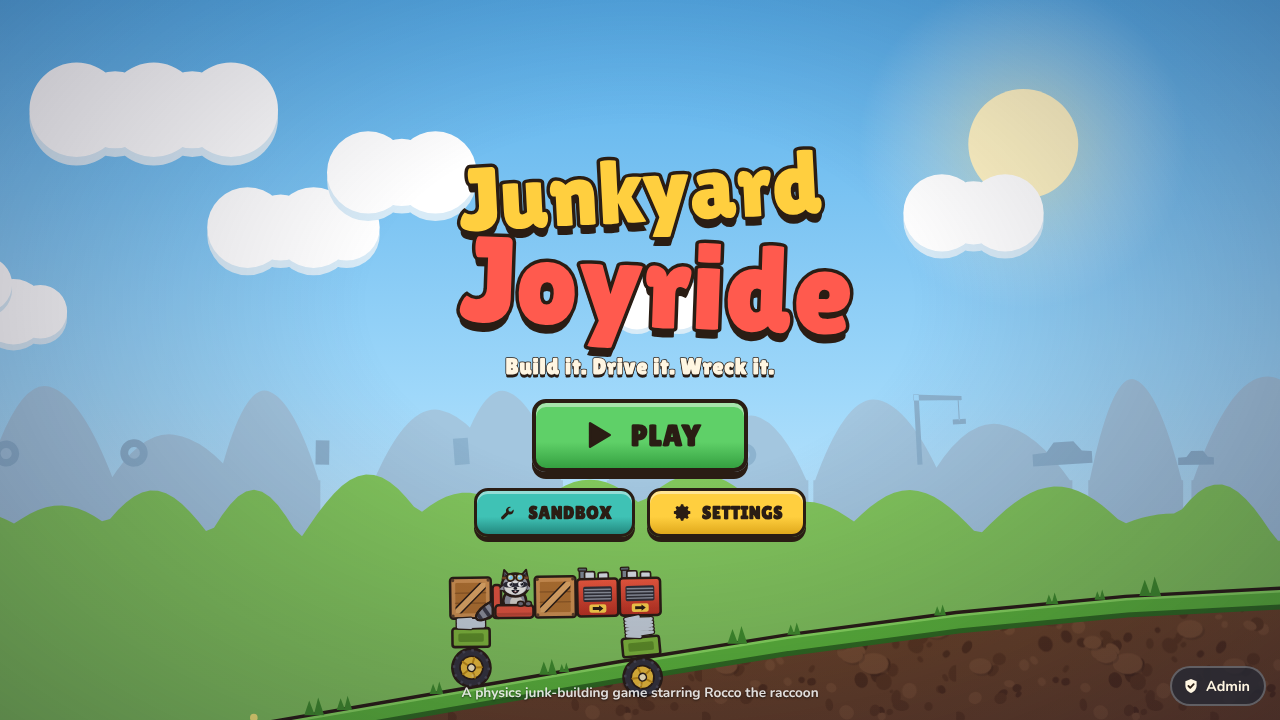
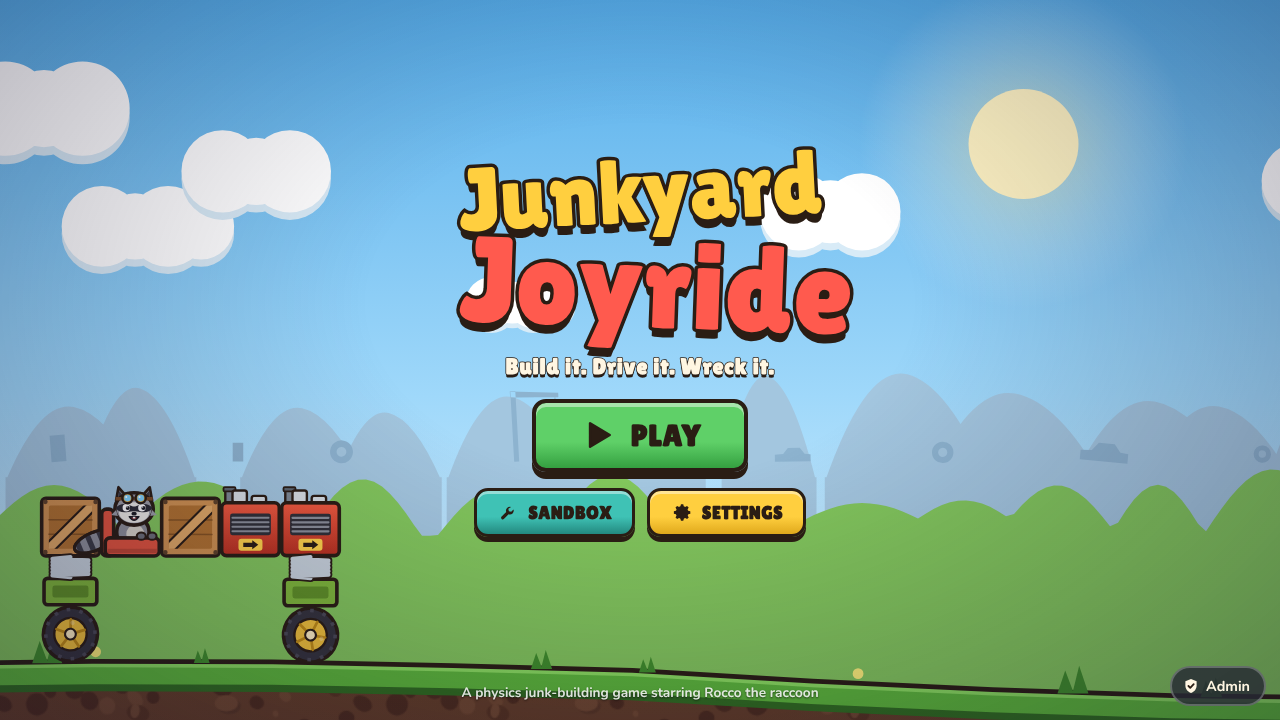
Keep the title demo car clear of the Admin button and screen edges
Measured over 7 screen sizes: the car never overlaps the logo, buttons,
footer or Admin button and never leaves the screen. Small phones get a
slightly smaller logo and no footer line so the car has room.

Claude-Session: https://claude.ai/code/session_013FFbnPa1xF3YYy7DAdYxv2

diff --git a/css/game.css b/css/game.css
@@ -186,9 +186,10 @@ input, select, textarea { font: inherit; }
 .title-buttons { display: flex; flex-direction: column; align-items: center; gap: 16px; }
 .title-buttons .row { display: flex; gap: 12px; flex-wrap: wrap; justify-content: center; }
 .title-foot {
-  position: absolute; left: 0; right: 0; bottom: calc(18px + var(--safe-b)); text-align: center;
+  position: absolute; left: 50%; bottom: calc(18px + var(--safe-b)); transform: translateX(-50%);
+  width: max-content; max-width: calc(100% - 300px); text-align: center;
   font-size: 0.85rem; color: rgba(255,255,255,0.85); text-shadow: 0 1px 2px rgba(0,0,0,0.6);
-  pointer-events: none; padding: 0 140px;
+  pointer-events: none;
 }
 .motd {
   max-width: min(560px, 92vw); text-align: center;
@@ -475,7 +476,7 @@ input, select, textarea { font: inherit; }
   .dock-actions .icon-btn { width: 44px; height: 44px; font-size: 1.25rem; }
   .ctrl { width: 70px; height: 70px; }
   .ctrl canvas { width: 46px; height: 46px; }
-  .title-foot { padding: 0 16px 44px; }
+  .title-foot { max-width: calc(100% - 32px); bottom: calc(64px + var(--safe-b)); }
   .lv-name { max-width: 34vw; }
 }
 @media (max-width: 520px) {
@@ -486,6 +487,14 @@ input, select, textarea { font: inherit; }
   .screen-title { font-size: 1.5rem; }
   .level-grid { grid-template-columns: repeat(auto-fill, minmax(96px, 1fr)); gap: 10px; padding: 8px 12px 18px; }
   .tile .t-num { font-size: 1.7rem; }
+}
+@media (max-height: 700px) and (max-width: 520px) {
+  .title-wrap { gap: 10px; margin-top: -2vh; }
+  .logo-1 { font-size: clamp(2rem, 9vw, 5.6rem); }
+  .logo-2 { font-size: clamp(2.6rem, 12vw, 7.6rem); }
+  .title-buttons { gap: 12px; }
+  .btn-xl { font-size: 1.6rem; }
+  .title-foot { display: none; }
 }
 @media (max-height: 520px) {
   .hint { display: none; }

diff --git a/js/game.js b/js/game.js
@@ -67,10 +67,11 @@
     };
     const ui = box('#scr-title .title-wrap') || { l: W * 0.3, r: W * 0.7, t: H * 0.1, b: H * 0.75 };
     const foot = box('#scr-title .title-foot');
+    const admin = box('#btn-admin');
     const floor = Math.min(H - 10, foot ? foot.t - 6 : H - 40);
     const carW = DEMO_BOX.r - DEMO_BOX.l, carH = DEMO_BOX.t - DEMO_BOX.b;
-    // under the menu, centred
-    const band = floor - (ui.b + 12);
+    // under the menu, centred (and above the Admin corner button)
+    const band = Math.min(floor, admin ? admin.t - 8 : floor) - (ui.b + 12);
     const zUnder = Math.min((W * 0.55) / carW, band / carH, 60);
     // left of the menu, near the bottom
     const side = ui.l - 24;
@@ -79,7 +80,7 @@
     if (zUnder >= zSide && zUnder > 0) spot = { zoom: Math.max(8, zUnder), x: W / 2, y: ui.b + 12 + band / 2 };
     else if (zSide > 0) {
       const z = Math.max(8, zSide);
-      spot = { zoom: z, x: Math.max(12 + (carW * z) / 2, side / 2), y: floor - (carH * z) / 2 };
+      spot = { zoom: z, x: Math.max(24 + (carW * z) / 2, side / 2), y: floor - (carH * z) / 2 };
     } else spot = { zoom: 10, x: W * 0.18, y: H - 60 };
     spot.at = G.t; spot.W = W; spot.H = H;
     G.demoSpot = spot;
